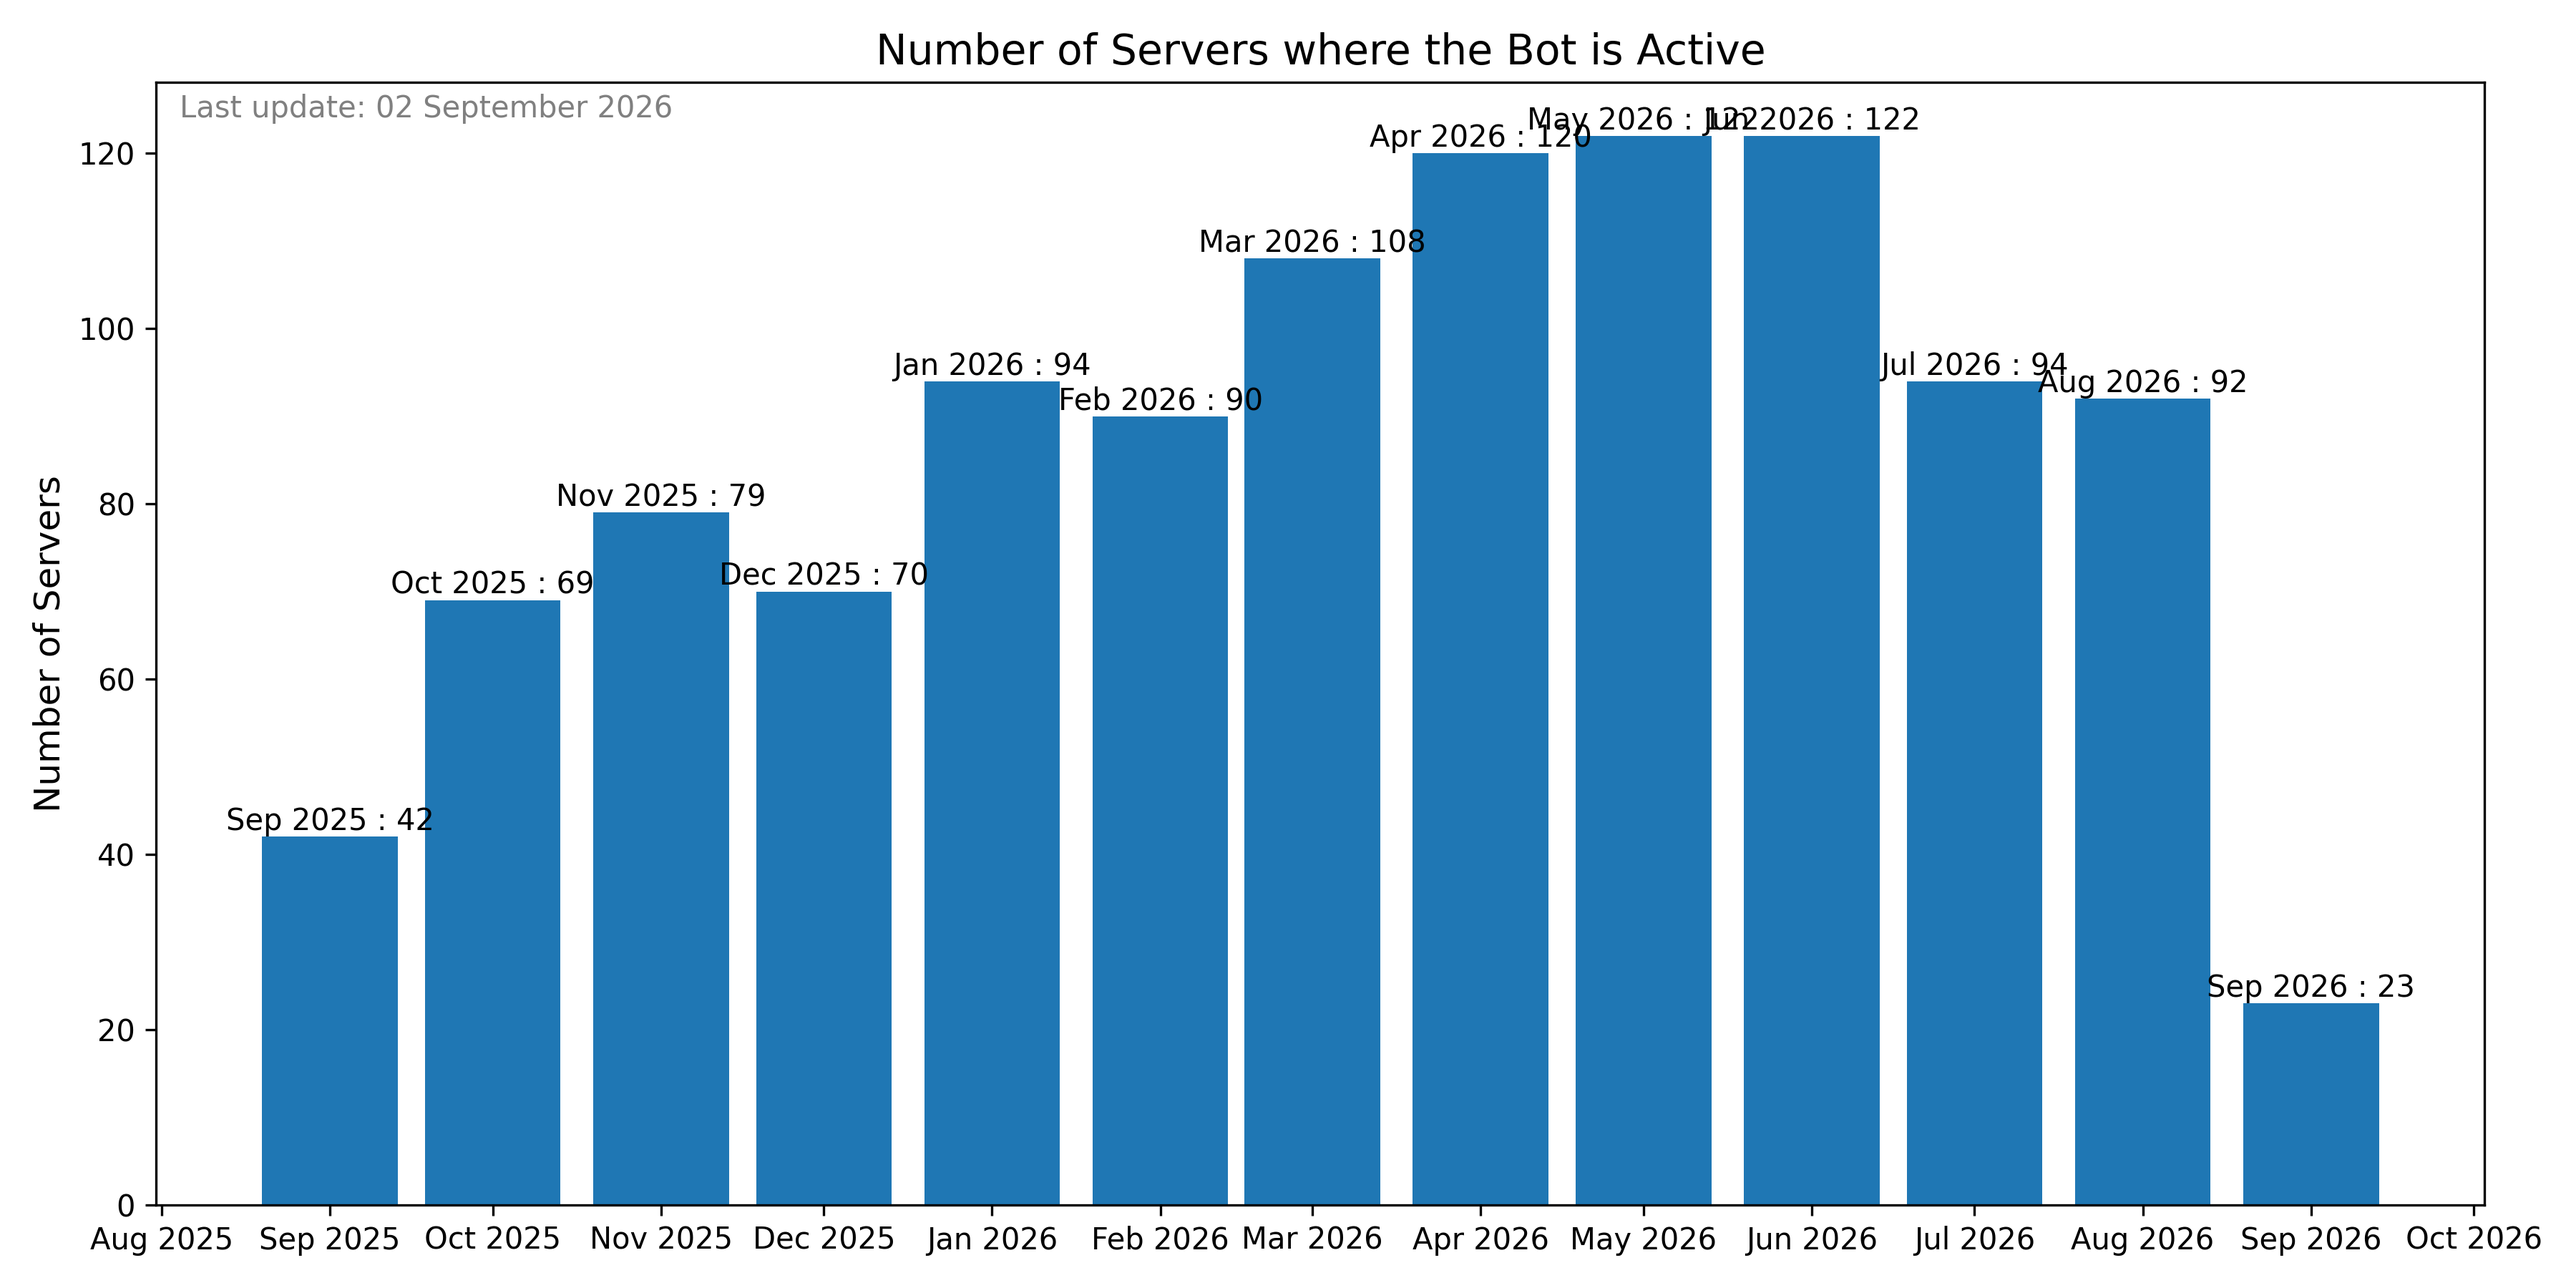
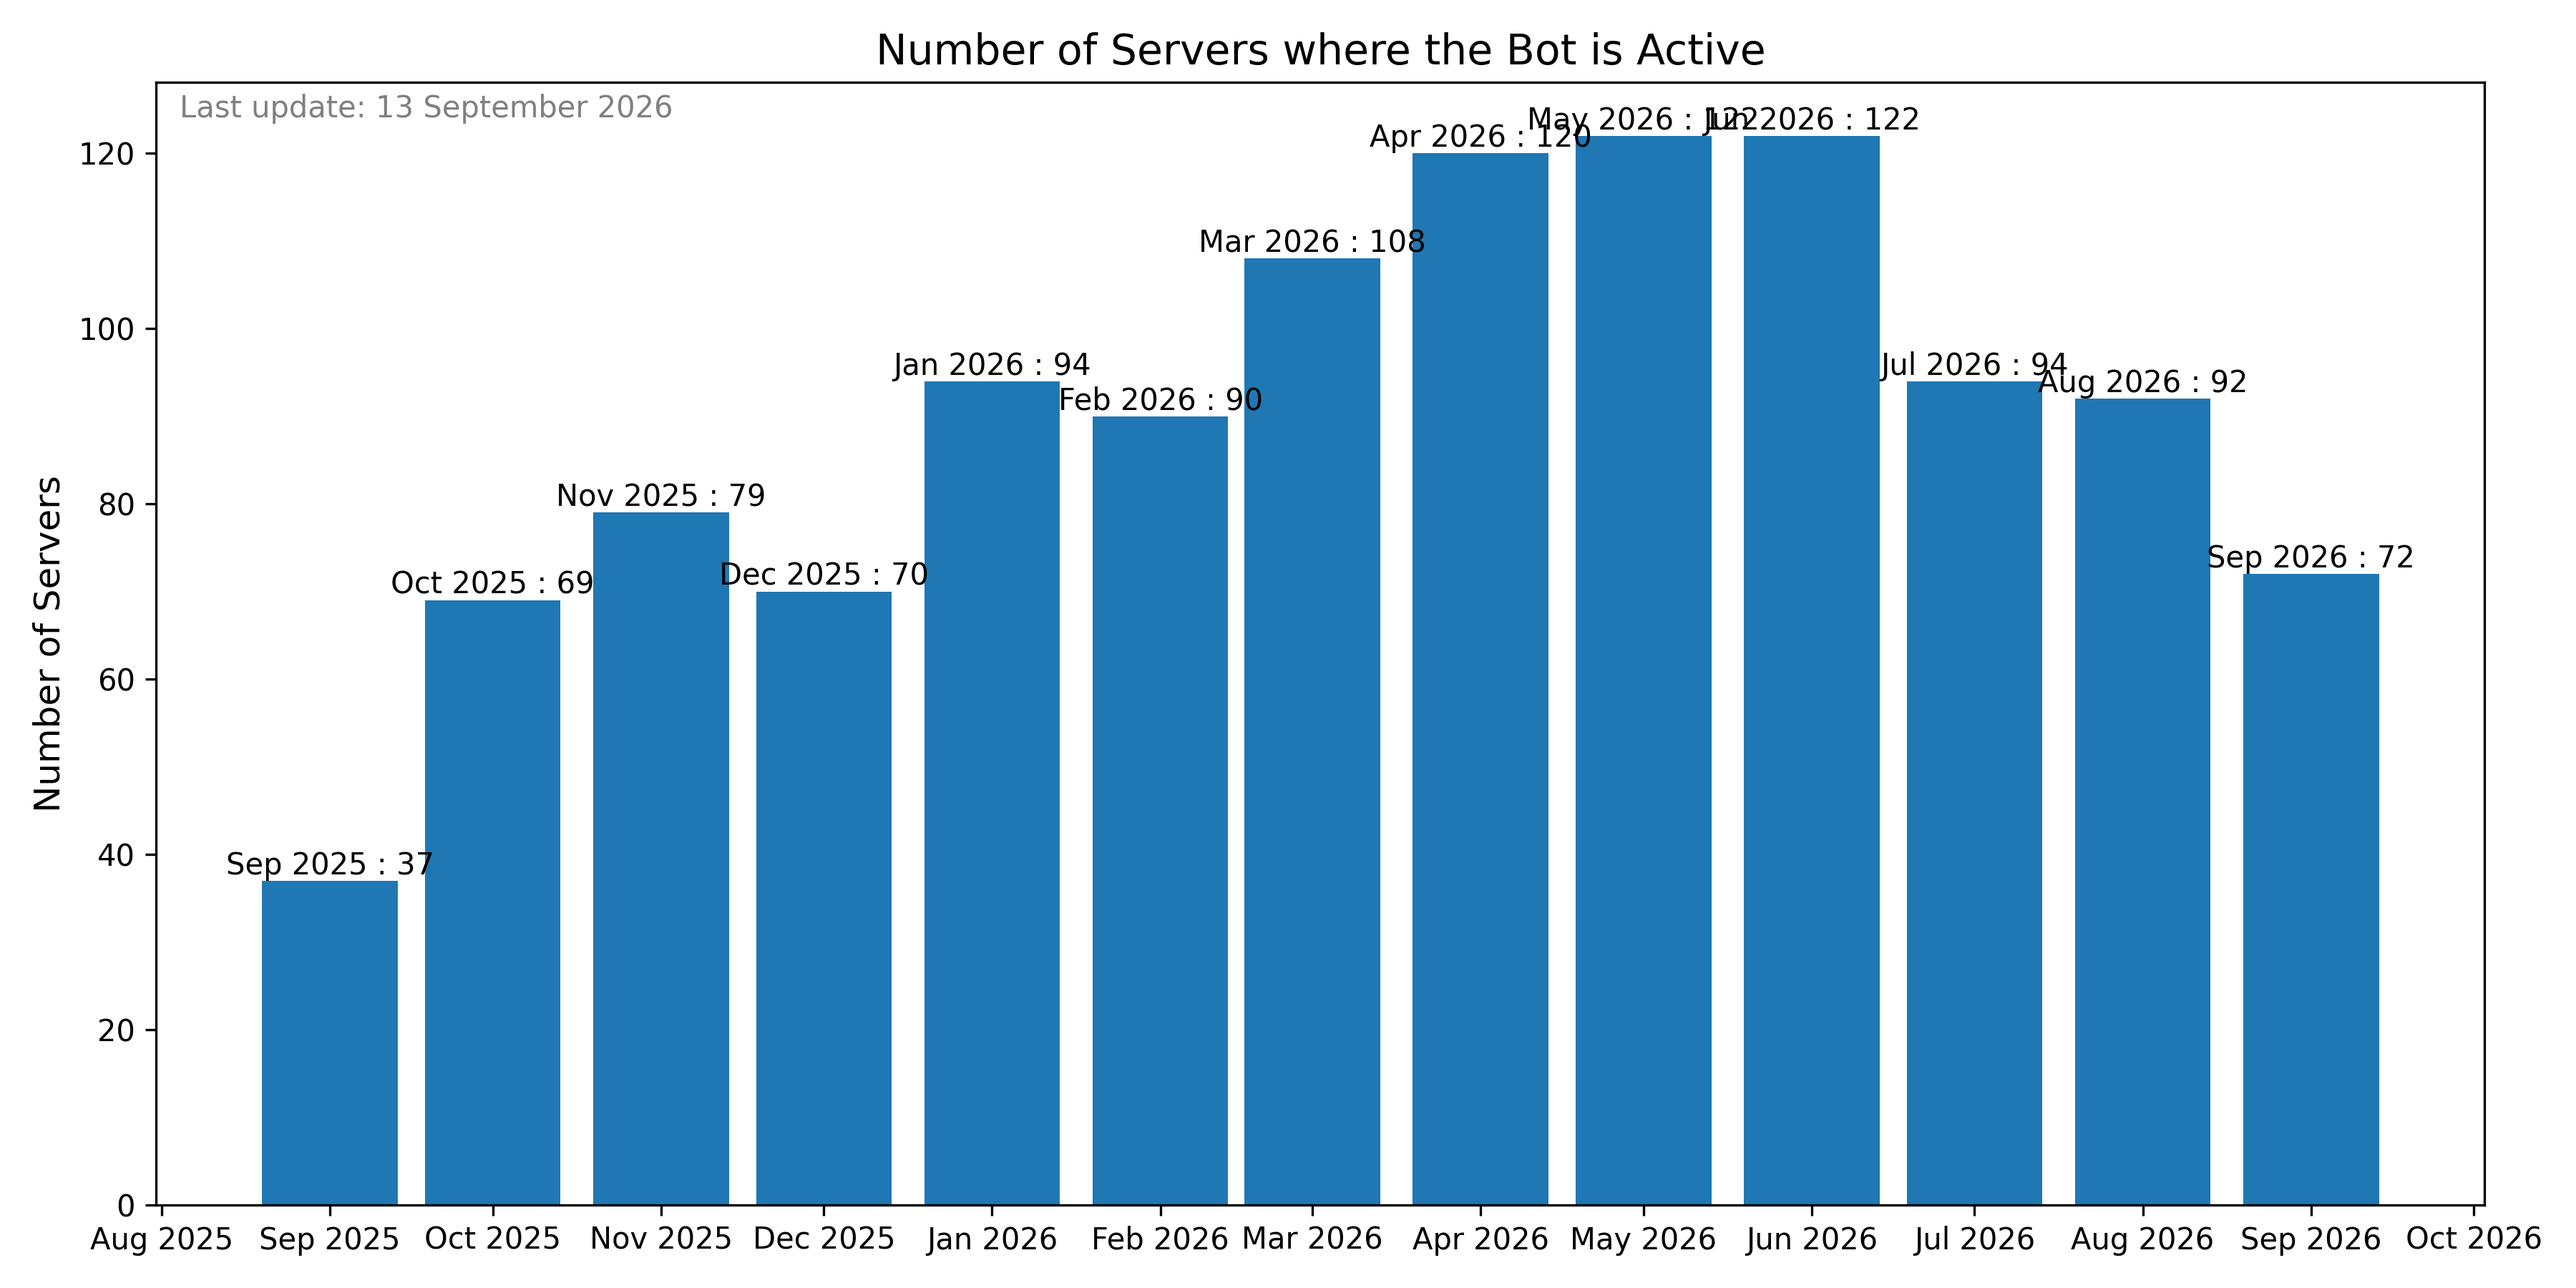
update dashboard

Changed region(s): [[0.84, 0.4044, 0.9333, 0.7778], [0.0933, 0.6222, 0.1556, 0.6844]]

diff --git a/README.md b/README.md
@@ -13,7 +13,7 @@ You can also invite the bot on your server to test it :
 
 ## Usage Analytics
 <!-- UPDATE_DATE -->
-> **Last update : 02 September 2026**
+> **Last update : 13 September 2026**
 <!-- UPDATE_DATE -->
 
 ### Number of Commands per Month
